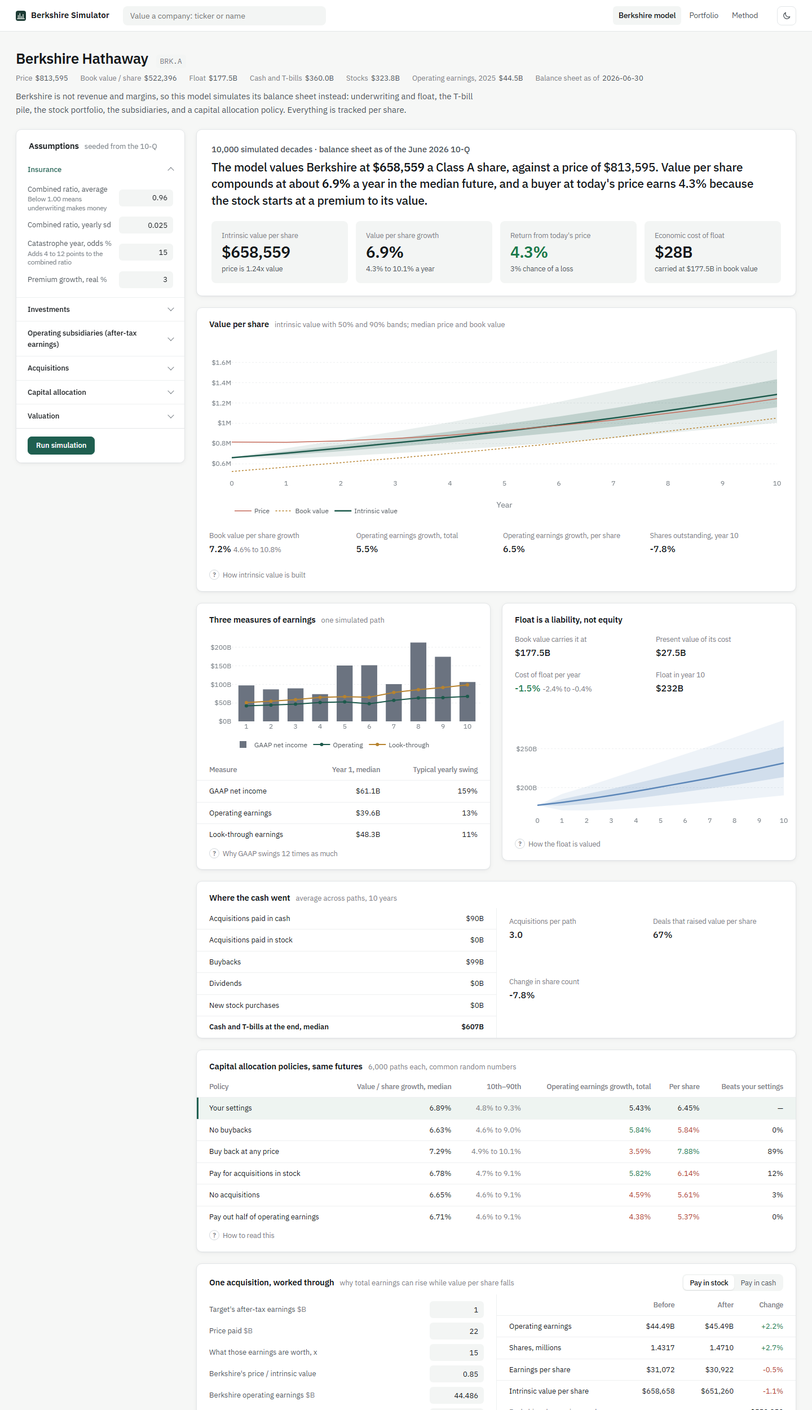
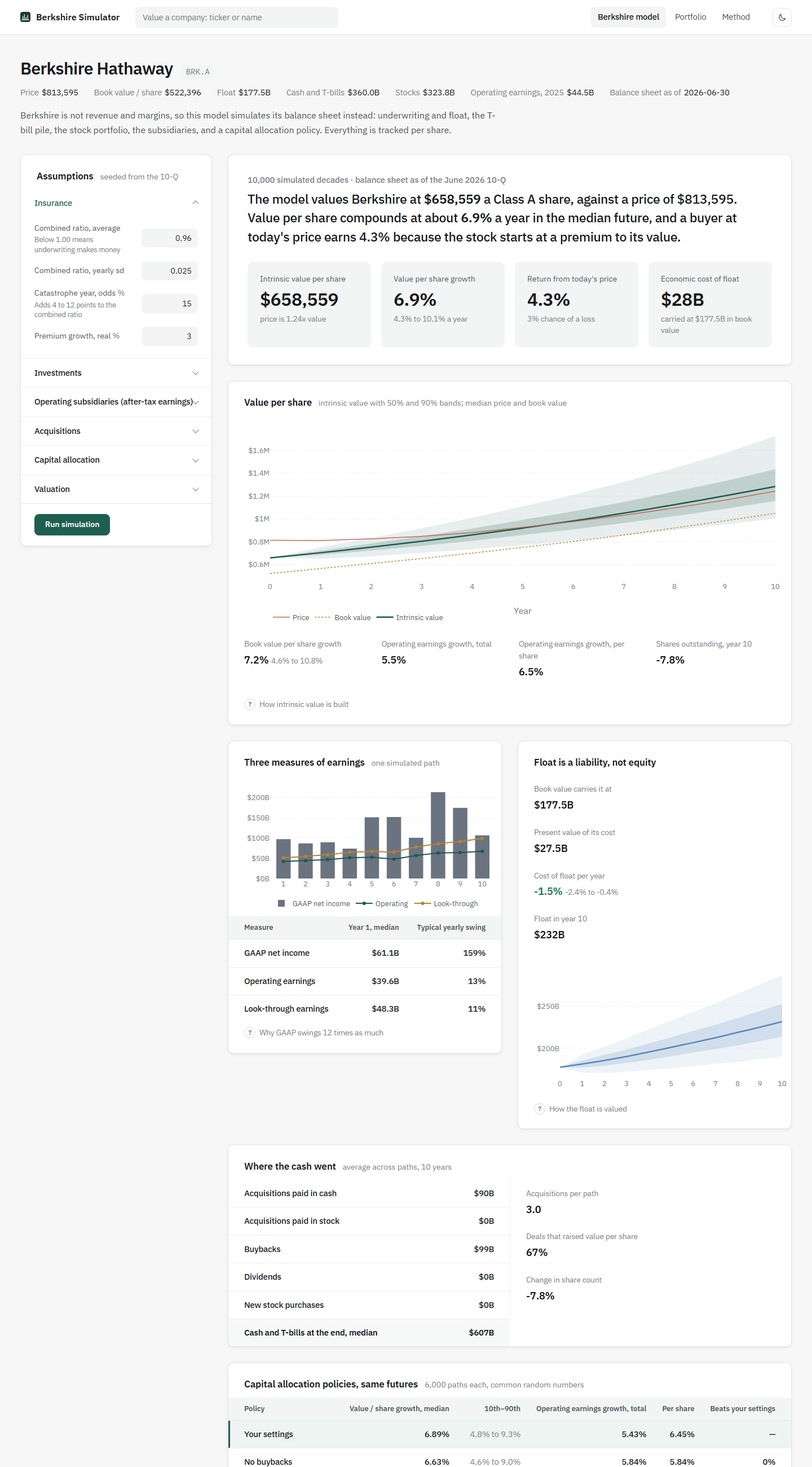
style: larger type, roomier layout, clearer tables

diff --git a/public/css/app.css b/public/css/app.css
@@ -61,180 +61,184 @@ html.dark {
 
 * { box-sizing: border-box; }
 html { -webkit-text-size-adjust: 100%; }
-body { margin: 0; background: var(--page); color: var(--ink); font: 14px/1.5 var(--sans); font-variant-numeric: tabular-nums; }
+body { margin: 0; background: var(--page); color: var(--ink); font: 15px/1.55 var(--sans); font-variant-numeric: tabular-nums; }
 a { color: var(--link); text-decoration: none; }
 a:hover { text-decoration: underline; }
 button, input, select { font: inherit; color: inherit; }
 h1, h2, h3 { margin: 0; font-weight: 600; letter-spacing: -0.01em; }
-code, .mono { font-family: var(--mono); font-size: 12.5px; }
+code, .mono { font-family: var(--mono); font-size: 13.5px; }
 [hidden] { display: none !important; }
 
 /* Top bar */
-.top { position: sticky; top: 0; z-index: 20; display: flex; align-items: center; gap: 24px; height: 56px; padding: 0 28px; background: var(--panel); border-bottom: 1px solid var(--line); }
-.brand { display: flex; align-items: center; gap: 9px; color: var(--ink); font-weight: 600; font-size: 15px; white-space: nowrap; }
+.top { position: sticky; top: 0; z-index: 20; display: flex; align-items: center; gap: 28px; height: 62px; padding: 0 36px; background: var(--panel); border-bottom: 1px solid var(--line); }
+.brand { display: flex; align-items: center; gap: 10px; color: var(--ink); font-weight: 600; font-size: 16px; white-space: nowrap; }
 .brand::before { content: ""; width: 18px; height: 18px; border-radius: 4px; background: var(--fill) url("/favicon.svg") center / cover; }
 .brand:hover { text-decoration: none; }
 .omni { position: relative; flex: 0 1 360px; }
-.omni input { width: 100%; height: 34px; padding: 0 12px; border: 1px solid transparent; border-radius: 8px; background: var(--field); outline: none; }
+.omni input { width: 100%; height: 38px; font-size: 14.5px; padding: 0 12px; border: 1px solid transparent; border-radius: 8px; background: var(--field); outline: none; }
 .omni input:focus { border-color: var(--focus); background: var(--panel); }
 .suggest { position: absolute; top: 40px; left: 0; right: 0; z-index: 30; background: var(--panel); border: 1px solid var(--line); border-radius: 8px; box-shadow: 0 8px 24px rgba(16, 24, 40, 0.12); overflow: hidden; }
-.suggest a { display: grid; grid-template-columns: 64px 1fr; gap: 10px; padding: 8px 12px; color: var(--ink); }
+.suggest a { display: grid; grid-template-columns: 70px 1fr; gap: 12px; padding: 10px 14px; color: var(--ink); font-size: 14.5px; }
 .suggest a:hover, .suggest a.on { background: var(--sel); text-decoration: none; }
 .suggest b { font-family: var(--mono); font-size: 12.5px; font-weight: 500; color: var(--accent); }
 .suggest .none { padding: 10px 12px; color: var(--ink-3); }
 .topnav { display: flex; gap: 4px; margin-left: auto; }
-.topnav a { padding: 6px 10px; border-radius: 6px; color: var(--ink-2); font-size: 13.5px; white-space: nowrap; }
+.topnav a { padding: 7px 12px; border-radius: 6px; color: var(--ink-2); font-size: 14.5px; white-space: nowrap; }
 .topnav a:hover { background: var(--field); text-decoration: none; }
 .topnav a.on { color: var(--ink); font-weight: 500; background: var(--field); }
 .theme-btn { display: inline-flex; align-items: center; justify-content: center; width: 34px; height: 34px; border: 1px solid var(--line); border-radius: 8px; background: var(--panel); color: var(--ink-2); cursor: pointer; }
 .theme-btn:hover { color: var(--ink); background: var(--field); }
 .theme-btn svg { width: 16px; height: 16px; }
 
-main { max-width: 1440px; margin: 0 auto; padding: 28px 28px 40px; }
-.foot { max-width: 1440px; margin: 0 auto; padding: 0 28px 32px; color: var(--ink-3); font-size: 12.5px; }
+main { max-width: 1480px; margin: 0 auto; padding: 36px 36px 56px; }
+.foot { max-width: 1480px; margin: 0 auto; padding: 0 36px 40px; color: var(--ink-3); font-size: 13.5px; }
 
 /* Cards */
-.panel { background: var(--panel); border: 1px solid var(--line); border-radius: var(--radius); box-shadow: var(--shadow); margin-bottom: 20px; min-width: 0; overflow: hidden; }
-.panel > header { display: flex; align-items: baseline; gap: 10px; flex-wrap: wrap; padding: 18px 22px 6px; }
-.panel > header h2 { font-size: 15px; }
-.panel > header .sub { color: var(--ink-3); font-size: 13px; }
+.panel { background: var(--panel); border: 1px solid var(--line); border-radius: var(--radius); box-shadow: var(--shadow); margin-bottom: 28px; min-width: 0; overflow: hidden; }
+.panel > header { display: flex; align-items: baseline; gap: 12px; flex-wrap: wrap; padding: 24px 28px 10px; }
+.panel > header h2 { font-size: 17px; }
+.panel > header .sub { color: var(--ink-3); font-size: 14px; }
 .panel > header .right { margin-left: auto; display: flex; gap: 10px; align-items: center; flex-wrap: wrap; }
-.panel .body { padding: 10px 22px 20px; }
-.cols { display: grid; gap: 20px; align-items: start; }
+.panel .body { padding: 12px 28px 26px; }
+.cols { display: grid; gap: 28px; align-items: start; }
 .cols > .panel { margin-bottom: 0; }
-.cols + .panel, .cols + .cols, .panel + .cols { margin-top: 20px; }
+.cols + .panel, .cols + .cols, .panel + .cols { margin-top: 28px; }
 @media (min-width: 1100px) {
   .cols.c2 { grid-template-columns: minmax(0, 1fr) minmax(0, 1fr); }
   .cols.c3 { grid-template-columns: repeat(3, minmax(0, 1fr)); }
   .cols.wl { grid-template-columns: minmax(0, 1.5fr) minmax(0, 1fr); }
 }
-.split { display: grid; gap: 0; }
+.split { display: grid; gap: 0; align-items: start; }
 @media (min-width: 900px) { .split { grid-template-columns: 1fr 1fr; } .split > * + * { border-left: 1px solid var(--line-2); } }
 
 /* Explanations stay one click away */
-details.explain { margin: 4px 22px 18px; color: var(--ink-2); font-size: 13px; line-height: 1.6; }
-details.explain summary { display: inline-flex; align-items: center; gap: 6px; cursor: pointer; color: var(--ink-3); font-size: 12.5px; list-style: none; }
+details.explain { margin: 6px 28px 24px; color: var(--ink-2); font-size: 14px; line-height: 1.65; }
+details.explain summary { display: inline-flex; align-items: center; gap: 7px; cursor: pointer; color: var(--ink-3); font-size: 13.5px; list-style: none; }
 details.explain summary::-webkit-details-marker { display: none; }
-details.explain summary::before { content: "?"; display: inline-grid; place-items: center; width: 16px; height: 16px; border: 1px solid var(--edge); border-radius: 50%; font-size: 10.5px; font-weight: 600; }
+details.explain summary::before { content: "?"; display: inline-grid; place-items: center; width: 18px; height: 18px; border: 1px solid var(--edge); border-radius: 50%; font-size: 11.5px; font-weight: 600; }
 details.explain summary:hover { color: var(--ink); }
 details.explain[open] summary { margin-bottom: 6px; }
 details.explain p { margin: 0 0 6px; max-width: 760px; }
 
 /* Headline summary */
-.hero { padding: 24px 26px 22px; }
+.hero { padding: 32px 34px 30px; }
 .hero-top { display: flex; align-items: center; gap: 12px; flex-wrap: wrap; margin-bottom: 6px; }
-.hero h2 { font-size: 15px; color: var(--ink-2); font-weight: 500; }
-.hero .claim { margin: 2px 0 22px; font-size: 21px; line-height: 1.4; font-weight: 500; letter-spacing: -0.015em; max-width: 980px; }
+.hero h2 { font-size: 15px; color: var(--ink-3); font-weight: 500; }
+.hero .claim { margin: 6px 0 28px; font-size: 23px; line-height: 1.45; font-weight: 500; letter-spacing: -0.015em; max-width: 980px; }
 .hero .claim b { font-weight: 600; }
-.metrics { display: grid; grid-template-columns: repeat(auto-fit, minmax(190px, 1fr)); gap: 14px; }
-.metric { padding: 16px 18px; border-radius: 8px; background: var(--field); }
-.metric .k { font-size: 12.5px; color: var(--ink-3); }
-.metric .v { margin-top: 4px; font-size: 28px; font-weight: 600; letter-spacing: -0.02em; line-height: 1.15; }
-.metric .s { margin-top: 4px; font-size: 12.5px; color: var(--ink-2); }
+.metrics { display: grid; grid-template-columns: repeat(auto-fit, minmax(210px, 1fr)); gap: 18px; }
+.metric { padding: 20px 22px; border-radius: 10px; background: var(--field); }
+.metric .k { font-size: 14px; color: var(--ink-2); }
+.metric .v { margin-top: 6px; font-size: 32px; font-weight: 600; letter-spacing: -0.02em; line-height: 1.15; }
+.metric .s { margin-top: 6px; font-size: 13.5px; color: var(--ink-3); }
 .metric .v.pos { color: var(--pos); }
 .metric .v.neg { color: var(--neg); }
 
-.verdict { display: inline-flex; align-items: center; gap: 6px; padding: 3px 10px; border-radius: 999px; font-weight: 600; font-size: 12.5px; }
+.verdict { display: inline-flex; align-items: center; gap: 7px; padding: 4px 12px; border-radius: 999px; font-weight: 600; font-size: 13.5px; }
 .verdict::before { content: ""; width: 7px; height: 7px; border-radius: 50%; background: currentColor; }
 .verdict.Attractive { background: var(--pos-bg); color: var(--pos); }
 .verdict.Borderline { background: var(--warn-bg); color: var(--warn); }
 .verdict.Pass { background: var(--neg-bg); color: var(--neg); }
 
 /* Stats: label above value, no boxes */
-.stats { display: grid; grid-template-columns: repeat(auto-fill, minmax(200px, 1fr)); gap: 18px 24px; padding: 8px 22px 20px; }
-.stat .k { font-size: 12.5px; color: var(--ink-3); }
-.stat .v { margin-top: 2px; font-size: 16px; font-weight: 500; }
-.stat .v small { font-size: 12.5px; font-weight: 400; color: var(--ink-3); }
+.stats { display: grid; grid-template-columns: repeat(auto-fill, minmax(210px, 1fr)); gap: 24px 32px; padding: 14px 28px 26px; }
+.stat .k { font-size: 13.5px; color: var(--ink-3); }
+.stat .v { margin-top: 4px; font-size: 18px; font-weight: 600; letter-spacing: -0.01em; }
+.stat .v small { font-size: 13.5px; font-weight: 400; color: var(--ink-3); letter-spacing: 0; }
 
 /* Workbench */
-.bench { display: grid; gap: 20px; align-items: start; }
-@media (min-width: 1100px) { .bench { grid-template-columns: 300px minmax(0, 1fr); } }
+.bench { display: grid; gap: 28px; align-items: start; }
+@media (min-width: 1100px) { .bench { grid-template-columns: 340px minmax(0, 1fr); } }
 .inputs { position: sticky; top: 76px; max-height: calc(100vh - 96px); overflow-y: auto; }
 @media (max-width: 1099px) { .inputs { position: static; max-height: none; } }
 .inputs > header { padding-bottom: 10px; }
 .inputs .group { border-top: 1px solid var(--line-2); }
-.inputs .group > summary { display: flex; align-items: center; justify-content: space-between; padding: 11px 20px; cursor: pointer; font-size: 13px; font-weight: 500; color: var(--ink); list-style: none; }
+.inputs .group > summary { display: flex; align-items: center; justify-content: space-between; padding: 14px 24px; cursor: pointer; font-size: 14.5px; font-weight: 500; color: var(--ink); list-style: none; }
 .inputs .group > summary::-webkit-details-marker { display: none; }
 .inputs .group > summary::after { content: ""; width: 7px; height: 7px; border-right: 1.5px solid var(--ink-3); border-bottom: 1.5px solid var(--ink-3); transform: rotate(45deg); margin-top: -4px; transition: transform 0.15s; }
 .inputs .group[open] > summary::after { transform: rotate(225deg); margin-top: 2px; }
 .inputs .group > summary:hover { background: var(--hover); }
-.inputs .group .rows { padding: 0 20px 12px; }
+.inputs .group .rows { padding: 2px 24px 16px; }
 .inputs .group.key { border-top: 0; }
 .inputs .group.key > summary { color: var(--accent); }
-.inputs .row { display: grid; grid-template-columns: minmax(0, 1fr) 96px; align-items: center; gap: 10px; padding: 4px 0; font-size: 13px; }
+.inputs .row { display: grid; grid-template-columns: minmax(0, 1fr) 100px; align-items: center; gap: 12px; padding: 6px 0; font-size: 14px; }
 .inputs .row label { color: var(--ink-2); }
-.inputs .row small { display: block; color: var(--ink-3); font-size: 11.5px; line-height: 1.35; }
+.inputs .row small { display: block; margin-top: 1px; color: var(--ink-3); font-size: 12.5px; line-height: 1.4; }
 .inputs .row.changed label { color: var(--ink); font-weight: 500; }
 .inputs .row.changed .field { box-shadow: inset 2px 0 0 var(--accent); }
-.inputs .actions { display: flex; gap: 8px; padding: 14px 20px; position: sticky; bottom: 0; background: var(--panel); border-top: 1px solid var(--line); }
+.inputs .actions { display: flex; gap: 10px; padding: 18px 24px; position: sticky; bottom: 0; background: var(--panel); border-top: 1px solid var(--line); }
 .inputs .row select.field { width: 100%; }
 
-.field { width: 100%; height: 30px; padding: 0 9px; border: 1px solid transparent; border-radius: 6px; background: var(--field); font-size: 13px; text-align: right; }
+.field { width: 100%; height: 34px; padding: 0 10px; border: 1px solid transparent; border-radius: 7px; background: var(--field); font-size: 14px; text-align: right; }
 .field:hover { background: var(--field-hover); }
 .field:focus { outline: none; border-color: var(--focus); background: var(--panel); }
 select.field { text-align: left; padding-right: 4px; }
 .field.wide { width: auto; text-align: left; }
-.btn { display: inline-flex; align-items: center; gap: 6px; height: 32px; padding: 0 14px; border: 1px solid var(--edge); border-radius: 7px; background: var(--panel); font-size: 13px; font-weight: 500; cursor: pointer; white-space: nowrap; color: var(--ink); }
+.btn { display: inline-flex; align-items: center; gap: 6px; height: 38px; padding: 0 18px; border: 1px solid var(--edge); border-radius: 8px; background: var(--panel); font-size: 14px; font-weight: 500; cursor: pointer; white-space: nowrap; color: var(--ink); }
 .btn:hover { background: var(--field); text-decoration: none; }
 .btn:focus-visible { outline: 2px solid var(--focus); outline-offset: 1px; }
 .btn.primary { background: var(--fill); border-color: var(--fill); color: #fff; }
 .btn.primary:hover { background: var(--fill-2); }
 .btn[disabled] { opacity: 0.55; cursor: default; }
-.btn.small { height: 26px; padding: 0 10px; font-size: 12.5px; }
+.btn.small { height: 32px; padding: 0 12px; font-size: 13.5px; }
 .seg { display: inline-flex; padding: 2px; border-radius: 8px; background: var(--field); }
-.seg button { height: 26px; padding: 0 11px; border: 0; border-radius: 6px; background: transparent; font-size: 12.5px; cursor: pointer; color: var(--ink-2); }
+.seg button { height: 30px; padding: 0 14px; border: 0; border-radius: 6px; background: transparent; font-size: 13.5px; cursor: pointer; color: var(--ink-2); }
 .seg button.on { background: var(--panel); color: var(--ink); font-weight: 500; box-shadow: 0 1px 2px rgba(16, 24, 40, 0.1); }
-.inline-input { display: inline-flex; align-items: center; gap: 6px; font-size: 12.5px; color: var(--ink-3); }
-.inline-input .field { width: 58px; height: 28px; }
+.inline-input { display: inline-flex; align-items: center; gap: 8px; font-size: 14px; color: var(--ink-2); }
+.inline-input .field { width: 64px; height: 32px; }
 
 /* Tables: rules between rows only */
 .scroll { overflow-x: auto; }
-table.grid { width: 100%; border-collapse: collapse; font-size: 13px; }
-.grid th, .grid td { padding: 9px 12px; border-bottom: 1px solid var(--line-2); text-align: left; vertical-align: top; }
-.grid th { color: var(--ink-3); font-weight: 500; font-size: 12.5px; white-space: nowrap; }
-.grid th:first-child, .grid td:first-child { padding-left: 22px; }
-.grid th:last-child, .grid td:last-child { padding-right: 22px; }
+table.grid { width: 100%; border-collapse: collapse; font-size: 14.5px; }
+.grid th, .grid td { padding: 13px 14px; border-bottom: 1px solid var(--line-2); text-align: left; vertical-align: middle; }
+.grid th { padding-top: 10px; padding-bottom: 10px; background: var(--field); color: var(--ink-2); font-weight: 600; font-size: 13px; white-space: nowrap; border-bottom: 1px solid var(--line); }
+.grid td { color: var(--ink-2); }
+.grid td:first-child { color: var(--ink); font-weight: 500; }
+.grid th:first-child, .grid td:first-child { padding-left: 28px; }
+.grid th:last-child, .grid td:last-child { padding-right: 28px; }
 .grid tbody tr:last-child td { border-bottom: 0; }
 .grid .r { text-align: right; white-space: nowrap; }
+.grid td.r { color: var(--ink); font-weight: 500; }
+.grid td.r.muted { color: var(--ink-3); font-weight: 400; }
 .grid tbody tr:hover td { background: var(--hover); }
-.grid tr.total td { font-weight: 600; }
-.grid tr.sub td { color: var(--ink-3); font-size: 12px; padding-top: 14px; }
+.grid tr.total td { font-weight: 600; color: var(--ink); border-top: 1px solid var(--line); background: var(--hover); }
+.grid tr.sub td { color: var(--ink-3); font-size: 13px; font-weight: 600; padding-top: 18px; padding-bottom: 8px; background: transparent; }
 .grid tr.on td { background: var(--sel); }
 .grid tr.on td:first-child { box-shadow: inset 3px 0 0 var(--accent); }
 .muted { color: var(--ink-3); }
 .pos { color: var(--pos); }
 .neg { color: var(--neg); }
 .bar-cell { position: relative; min-width: 110px; }
-.bar-cell i { position: absolute; left: 12px; top: 50%; height: 6px; margin-top: -3px; max-width: calc(100% - 24px); border-radius: 3px; background: var(--accent); opacity: 0.7; }
+.bar-cell i { position: absolute; left: 14px; top: 50%; height: 8px; margin-top: -4px; max-width: calc(100% - 24px); border-radius: 3px; background: var(--accent); opacity: 0.7; }
 
 /* Page heads */
-.co { display: flex; flex-wrap: wrap; align-items: baseline; gap: 6px 14px; padding: 0 0 18px; }
-.co h1 { font-size: 26px; letter-spacing: -0.02em; }
-.co .tk { font-family: var(--mono); font-size: 13px; color: var(--ink-3); padding: 2px 7px; border-radius: 5px; background: var(--field); }
-.co .facts { flex-basis: 100%; display: flex; flex-wrap: wrap; gap: 4px 22px; color: var(--ink-2); font-size: 13px; }
+.co { display: flex; flex-wrap: wrap; align-items: baseline; gap: 8px 16px; padding: 0 0 26px; }
+.co h1 { font-size: 30px; letter-spacing: -0.02em; }
+.co .tk { font-family: var(--mono); font-size: 14px; color: var(--ink-3); padding: 2px 7px; border-radius: 5px; background: var(--field); }
+.co .facts { flex-basis: 100%; display: flex; flex-wrap: wrap; gap: 6px 28px; color: var(--ink); font-size: 14.5px; }
 .co .facts b { font-weight: 400; color: var(--ink-3); margin-right: 5px; }
-.lede { max-width: 820px; margin: -8px 0 22px; color: var(--ink-2); font-size: 15px; line-height: 1.6; }
+.lede { max-width: 860px; margin: -10px 0 30px; color: var(--ink-2); font-size: 16px; line-height: 1.65; }
 
-.warn { padding: 12px 16px; background: var(--warn-bg); color: var(--warn); border-radius: 8px; margin-bottom: 18px; font-size: 13px; }
+.warn { padding: 14px 18px; background: var(--warn-bg); color: var(--warn); border-radius: 10px; margin-bottom: 24px; font-size: 14.5px; }
 .loading { padding: 28px 22px; color: var(--ink-3); }
 .failure { display: flex; flex-direction: column; gap: 2px; padding: 16px 22px; background: var(--neg-bg); color: var(--neg); border-radius: 8px; }
 .failure span { color: var(--ink-2); }
 .empty { padding: 26px 22px; color: var(--ink-3); }
 .busy { opacity: 0.5; transition: opacity 0.15s; }
-.chart { height: 290px; padding: 0 10px 8px; }
-.chart.tall { height: 340px; }
-.chart.short { height: 230px; }
+.chart { height: 310px; padding: 4px 16px 12px; }
+.chart.tall { height: 380px; }
+.chart.short { height: 250px; }
 .ok { color: var(--pos); font-weight: 600; }
 .no { color: var(--neg); font-weight: 600; }
-.check { display: inline-flex; align-items: center; justify-content: center; width: 20px; height: 20px; border-radius: 50%; font-size: 12px; font-weight: 700; }
+.check { display: inline-flex; align-items: center; justify-content: center; width: 24px; height: 24px; border-radius: 50%; font-size: 13px; font-weight: 700; }
 .check.ok { background: var(--pos-bg); }
 .check.no { background: var(--neg-bg); }
 
 /* Scenario tree */
 .tree { width: 100%; overflow-x: auto; }
 .tree svg { display: block; min-width: 760px; }
-.tree text { font-family: var(--sans); font-size: 12.5px; fill: var(--ink); }
-.tree .sub { fill: var(--ink-3); font-size: 11.5px; }
+.tree text { font-family: var(--sans); font-size: 14px; fill: var(--ink); }
+.tree .sub { fill: var(--ink-3); font-size: 12.5px; }
 .tree .edge { stroke: var(--edge); fill: none; }
 .tree .node { fill: var(--field); stroke: none; }
 
@@ -247,19 +251,22 @@ table.grid { width: 100%; border-collapse: collapse; font-size: 13px; }
 .home-search input:focus { outline: none; border-color: var(--focus); }
 .home-search .btn { height: 46px; padding: 0 20px; border-radius: 10px; font-size: 14px; }
 .home-search .suggest { top: 52px; right: 112px; }
-.hint { color: var(--ink-3); font-size: 13px; margin-bottom: 36px; }
-.hint a { display: inline-block; margin: 0 4px 4px 0; padding: 3px 9px; border-radius: 999px; background: var(--panel); border: 1px solid var(--line); font-family: var(--mono); font-size: 12px; color: var(--ink-2); }
+.hint { color: var(--ink-3); font-size: 14px; margin-bottom: 44px; }
+.hint a { display: inline-block; margin: 0 6px 6px 0; padding: 4px 11px; border-radius: 999px; background: var(--panel); border: 1px solid var(--line); font-family: var(--mono); font-size: 13px; color: var(--ink-2); }
 .hint a:hover { border-color: var(--accent); color: var(--accent); text-decoration: none; }
-.prose { padding: 6px 22px 20px; max-width: 900px; line-height: 1.65; color: var(--ink-2); }
-.prose h3 { font-size: 14px; color: var(--ink); margin: 18px 0 4px; }
+.prose { padding: 8px 28px 26px; max-width: 900px; font-size: 15px; line-height: 1.7; color: var(--ink-2); }
+.prose h3 { font-size: 15.5px; color: var(--ink); margin: 18px 0 4px; }
 .prose p { margin: 0 0 10px; }
 .prose code { background: var(--field); padding: 1px 4px; border-radius: 4px; }
-.eq { font-family: var(--mono); font-size: 12.5px; background: var(--field); border-radius: 8px; padding: 10px 14px; margin: 8px 0 12px; white-space: pre-wrap; color: var(--ink); }
+.eq { font-family: var(--mono); font-size: 13.5px; background: var(--field); border-radius: 8px; padding: 10px 14px; margin: 8px 0 12px; white-space: pre-wrap; color: var(--ink); }
 
 @media (max-width: 720px) {
-  .top { gap: 10px; padding: 0 16px; }
+  .top { gap: 12px; padding: 0 16px; }
   .topnav a[data-nav="method"], .omni { display: none; }
-  main { padding: 18px 16px 32px; }
+  main { padding: 22px 16px 36px; }
+  .panel > header, .stats, .hero { padding-left: 18px; padding-right: 18px; }
+  .grid th:first-child, .grid td:first-child { padding-left: 18px; }
+  .grid th:last-child, .grid td:last-child { padding-right: 18px; }
   .foot { padding: 0 16px 24px; }
   .hero .claim { font-size: 18px; }
   .metric .v { font-size: 24px; }
@@ -269,8 +276,8 @@ table.grid { width: 100%; border-collapse: collapse; font-size: 13px; }
 details.panel > summary::-webkit-details-marker { display: none; }
 details.panel > summary::after { content: "Show"; float: right; font-size: 12.5px; color: var(--link); }
 details.panel[open] > summary::after { content: "Hide"; }
-.note { padding: 4px 22px 18px; color: var(--ink-3); font-size: 12.5px; line-height: 1.55; }
-dl.kv { display: grid; grid-template-columns: max-content 1fr; margin: 0 0 12px; font-size: 13px; }
-dl.kv dt, dl.kv dd { margin: 0; padding: 8px 22px; border-bottom: 1px solid var(--line-2); }
+.note { padding: 6px 28px 24px; color: var(--ink-3); font-size: 13.5px; line-height: 1.6; }
+dl.kv { display: grid; grid-template-columns: max-content 1fr; margin: 0 0 16px; font-size: 14.5px; }
+dl.kv dt, dl.kv dd { margin: 0; padding: 11px 28px; border-bottom: 1px solid var(--line-2); }
 dl.kv dt { color: var(--ink-3); padding-right: 16px; }
-dl.kv dd { text-align: right; }
+dl.kv dd { text-align: right; font-weight: 500; }

diff --git a/public/js/tree.js b/public/js/tree.js
@@ -5,32 +5,32 @@ import { esc, num, pct, px } from "./lib.js";
 export function scenarioTree(tree, price, n) {
   const branches = tree.branches.filter((b) => b.p > 0);
   const leaves = branches.flatMap((b) => b.children.filter((c) => c.p > 0).map((c) => ({ ...c, parent: b })));
-  const rowH = 24, top = 30;
+  const rowH = 30, top = 36;
   const H = top + leaves.length * rowH + 12;
-  const x0 = 10, x1 = 190, x2 = 410, W = 900;
+  const x0 = 10, x1 = 210, x2 = 470, W = 1000;
   const parts = [];
-  parts.push(`<text x="${x0}" y="16" class="sub">All paths</text><text x="${x1}" y="16" class="sub">Worst economy, years 1–5</text><text x="${x2}" y="16" class="sub">Worst competitive event</text>`);
-  parts.push(`<text x="${x2 + 190}" y="16" class="sub">Probability</text><text x="${x2 + 270}" y="16" class="sub">Median value</text>${price ? `<text x="${x2 + 370}" y="16" class="sub">Above price</text>` : ""}`);
+  parts.push(`<text x="${x0}" y="18" class="sub">All paths</text><text x="${x1}" y="18" class="sub">Worst economy, years 1–5</text><text x="${x2}" y="18" class="sub">Worst competitive event</text>`);
+  parts.push(`<text x="${x2 + 230}" y="18" class="sub">Probability</text><text x="${x2 + 330}" y="18" class="sub">Median value</text>${price ? `<text x="${x2 + 450}" y="18" class="sub">Above price</text>` : ""}`);
 
   const rootY = top + (leaves.length * rowH) / 2;
   let i = 0;
   for (const b of branches) {
     const kids = leaves.filter((l) => l.parent === b);
     const yMid = top + (i + kids.length / 2) * rowH;
-    parts.push(`<path class="edge" d="M${x0 + 150},${rootY} C${x0 + 170},${rootY} ${x1 - 20},${yMid} ${x1 - 4},${yMid}"/>`);
-    parts.push(`<rect class="node" x="${x1 - 4}" y="${yMid - 17}" width="200" height="34" rx="2"/>`);
-    parts.push(`<text x="${x1 + 4}" y="${yMid - 3}">${esc(b.label)}</text><text x="${x1 + 4}" y="${yMid + 11}" class="sub">${pct(b.p)} of paths · median ${px(b.median)}</text>`);
+    parts.push(`<path class="edge" d="M${x0 + 170},${rootY} C${x0 + 190},${rootY} ${x1 - 20},${yMid} ${x1 - 4},${yMid}"/>`);
+    parts.push(`<rect class="node" x="${x1 - 4}" y="${yMid - 20}" width="220" height="40" rx="6"/>`);
+    parts.push(`<text x="${x1 + 4}" y="${yMid - 4}">${esc(b.label)}</text><text x="${x1 + 4}" y="${yMid + 13}" class="sub">${pct(b.p)} of paths · median ${px(b.median)}</text>`);
     for (const c of kids) {
       const y = top + i * rowH + rowH / 2;
-      parts.push(`<path class="edge" d="M${x1 + 196},${yMid} C${x1 + 210},${yMid} ${x2 - 16},${y} ${x2 - 4},${y}"/>`);
+      parts.push(`<path class="edge" d="M${x1 + 216},${yMid} C${x1 + 210},${yMid} ${x2 - 16},${y} ${x2 - 4},${y}"/>`);
       const tone = price ? (c.median >= price ? "var(--pos)" : "var(--neg)") : "var(--ink)";
-      parts.push(`<text x="${x2}" y="${y + 4}">${esc(c.label)}</text>`);
-      parts.push(`<text x="${x2 + 190}" y="${y + 4}">${pct(c.p)}</text><text x="${x2 + 270}" y="${y + 4}" style="fill:${tone}">${px(c.median)}</text>`);
-      if (price) parts.push(`<text x="${x2 + 370}" y="${y + 4}">${pct(c.p_above, 0)}</text>`);
+      parts.push(`<text x="${x2}" y="${y + 5}">${esc(c.label)}</text>`);
+      parts.push(`<text x="${x2 + 230}" y="${y + 5}">${pct(c.p)}</text><text x="${x2 + 330}" y="${y + 5}" style="fill:${tone}">${px(c.median)}</text>`);
+      if (price) parts.push(`<text x="${x2 + 450}" y="${y + 5}">${pct(c.p_above, 0)}</text>`);
       i++;
     }
   }
-  parts.push(`<rect class="node" x="${x0}" y="${rootY - 17}" width="150" height="34" rx="2"/>`);
-  parts.push(`<text x="${x0 + 8}" y="${rootY - 3}">${num(n)} futures</text><text x="${x0 + 8}" y="${rootY + 11}" class="sub">median ${px(tree.root.median)}</text>`);
+  parts.push(`<rect class="node" x="${x0}" y="${rootY - 20}" width="170" height="40" rx="6"/>`);
+  parts.push(`<text x="${x0 + 8}" y="${rootY - 4}">${num(n)} futures</text><text x="${x0 + 8}" y="${rootY + 13}" class="sub">median ${px(tree.root.median)}</text>`);
   return `<div class="tree"><svg viewBox="0 0 ${W} ${H}" width="100%" height="${H}" role="img" aria-label="Scenario tree">${parts.join("")}</svg></div>`;
 }

diff --git a/public/js/views/company.js b/public/js/views/company.js
@@ -173,7 +173,7 @@ function draw(r) {
         <div><div class="chart tall" id="c-dist"></div></div>
         <div>
           ${d.buckets ? `<table class="grid"><thead><tr><th>Value per share</th><th class="r">Probability</th><th></th></tr></thead><tbody>
-            ${d.buckets.map((b) => `<tr><td>${bucketLabel(b)}<div class="muted" style="font-size:12px">${b.hi == null ? `above ${px(b.lo)}` : b.lo_x === 0 ? `below ${px(b.hi)}` : `${px(b.lo)} to ${px(b.hi)}`}</div></td>
+            ${d.buckets.map((b) => `<tr><td>${bucketLabel(b)}<div class="muted" style="font-size:13px">${b.hi == null ? `above ${px(b.lo)}` : b.lo_x === 0 ? `below ${px(b.hi)}` : `${px(b.lo)} to ${px(b.hi)}`}</div></td>
               <td class="r">${pct(b.p)}</td><td class="bar-cell"><i style="width:${(b.p * 100).toFixed(1)}%;${b.lo_x >= 1 ? "" : "background:var(--ink-3);opacity:.4"}"></i></td></tr>`).join("")}
           </tbody></table>` : '<div class="empty">Enter a share price to compare.</div>'}
         </div>
@@ -330,7 +330,7 @@ function bindBayes() {
       <tr><td>New reading</td><td class="r">${pct(u.observation.value, 2)}</td><td class="r">${pct(u.observation.sd, 2)}</td></tr>
       <tr class="total"><td>After</td><td class="r">${pct(u.posterior.mean, 2)}</td><td class="r">${pct(u.posterior.sd, 2)}</td></tr></tbody></table>
       <div class="chart short" id="c-bayes"></div>
-      <p class="muted" style="margin:0 22px 14px;font-size:12.5px">The new reading got ${pct(u.weight_on_data, 0)} of the weight: a precise belief moves little, a vague one moves a lot.</p>`;
+      <p class="muted" style="margin:0 22px 14px;font-size:13.5px">The new reading got ${pct(u.weight_on_data, 0)} of the weight: a precise belief moves little, a vague one moves a lot.</p>`;
     const xs = [], pdf = (m, s) => xs.map((x) => Math.exp(-0.5 * ((x - m) / s) ** 2) / (s * Math.sqrt(2 * Math.PI)));
     const lo = Math.min(u.prior.mean - 3.5 * u.prior.sd, u.observation.value - 2 * u.observation.sd);
     const hi = Math.max(u.prior.mean + 3.5 * u.prior.sd, u.observation.value + 2 * u.observation.sd);

diff --git a/public/js/lib.js b/public/js/lib.js
@@ -106,14 +106,14 @@ export async function chart(el, data, layout = {}) {
   const Plotly = await loadPlotly();
   const grid = css("--line-2"), muted = css("--ink-3");
   const base = {
-    font: { family: "IBM Plex Sans, Segoe UI, sans-serif", size: 12, color: muted },
+    font: { family: "IBM Plex Sans, Segoe UI, sans-serif", size: 13, color: muted },
     paper_bgcolor: "rgba(0,0,0,0)", plot_bgcolor: "rgba(0,0,0,0)",
-    margin: { l: 52, r: 12, t: 16, b: 36 },
+    margin: { l: 58, r: 14, t: 18, b: 40 },
     // Light horizontal guides only; no frame, no vertical grid.
     xaxis: { showgrid: false, showline: false, zeroline: false, ticks: "", automargin: true, fixedrange: true },
     yaxis: { gridcolor: grid, griddash: "dot", showline: false, zeroline: false, ticks: "", automargin: true, fixedrange: true },
-    legend: { orientation: "h", y: -0.18, x: 0, font: { size: 12, color: css("--ink-2") } },
-    hoverlabel: { font: { family: "IBM Plex Sans, sans-serif", size: 12.5, color: css("--ink") }, bgcolor: css("--panel"), bordercolor: css("--line") },
+    legend: { orientation: "h", y: -0.18, x: 0, font: { size: 13, color: css("--ink-2") } },
+    hoverlabel: { font: { family: "IBM Plex Sans, sans-serif", size: 13.5, color: css("--ink") }, bgcolor: css("--panel"), bordercolor: css("--line") },
     hovermode: "closest",
     bargap: 0.08,
     showlegend: false,
